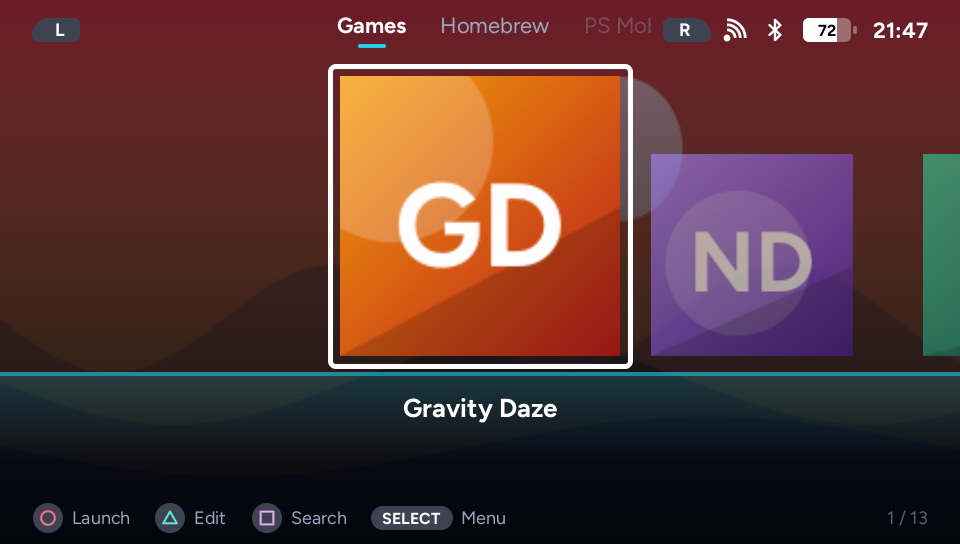
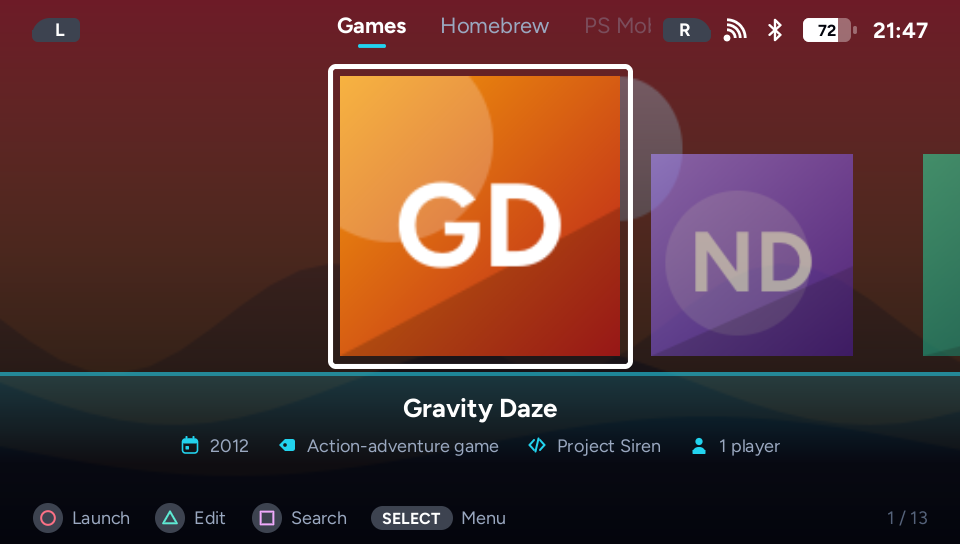
docs(readme): renders with the game details panel
The seven README screenshots rendered again from make shots (62-dynamic,
10-carousel, 40-cascade, 20-grid, 30-list, 51-tab-snes,
101-menu-appearance): Home, Carousel, Cascade and Grid now show the
details panel (a Vita game's details from the sample Wikidata table, the
SNES game's from the sample libretro database), the menu the Game names
row. Their descriptions say so.

Changed region(s): [[0.2812, 0.8125, 0.6875, 0.8438], [0.7188, 0.8125, 0.8125, 0.8438], [0.1875, 0.7812, 0.25, 0.8438]]

diff --git a/README.md b/README.md
@@ -16,16 +16,16 @@ its saved data.
 - Version 0.5.0
 
 <p align="center">
-  <img src="./screenshots/home.png" width="720" alt="Pocket Shelf's Home view on the Games tab in the Dynamic theme: the selected title's icon large at the left in a white ring, the next titles smaller after it, the title's name, platform and category, and a Launch button, over the title's backdrop." />
+  <img src="./screenshots/home.png" width="720" alt="Pocket Shelf's Home view on the Games tab in the Dynamic theme: the selected title's icon large at the left in a white ring, the next titles smaller after it, the title's name, platform and category, a Launch button, and the game's release year, genre, developer, publisher and players from Wikidata, over the title's backdrop." />
 </p>
 
 | Carousel | Cascade | Grid |
 | --- | --- | --- |
-| ![The carousel view: the selected title's icon enlarged in the middle of a row, its name below.](./screenshots/carousel.png) | ![The cascade view: the selected title's icon large at the left, the next titles shrinking and darkening to the right, its name below.](./screenshots/cascade.png) | ![The grid view: two rows of five title icons with the selected one in a white ring, its name below.](./screenshots/grid.png) |
+| ![The carousel view: the selected title's icon enlarged in a row, its name and a line of its details below.](./screenshots/carousel.png) | ![The cascade view: the selected title's icon large at the left, the next titles shrinking and darkening to the right, its name below and its details beside it.](./screenshots/cascade.png) | ![The grid view: two rows of five title icons with the selected one in a white ring, its name and a line of its details below.](./screenshots/grid.png) |
 
 | List | RetroArch | Menu |
 | --- | --- | --- |
-| ![The list view: title rows with small icons, the selected row highlighted.](./screenshots/list.png) | ![The Home view on a RetroArch console tab, SNES: a game from a RetroArch playlist, its console in the detail line.](./screenshots/retroarch.png) | ![The SELECT menu's Appearance page as a floating card: theme, view, details, backdrop, icon box and status bar.](./screenshots/menu.png) |
+| ![The list view: title rows with small icons, the selected row highlighted.](./screenshots/list.png) | ![The Home view on a RetroArch console tab, SNES: a game from a RetroArch playlist with its year, genre, developer, publisher, players and region from libretro's database.](./screenshots/retroarch.png) | ![The SELECT menu's Appearance page as a floating card: theme, view, details, text size, backdrop, icon box and game names.](./screenshots/menu.png) |
 
 The screens are rendered on the desktop by `make shots` with sample titles;
 the colored tiles with initials stand in for game icons.
